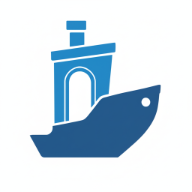
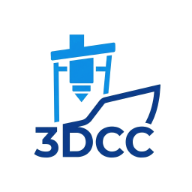
Refactor code structure for improved readability and maintainability

Changed region(s): [[0.1562, 0.0938, 0.8438, 0.8438]]

diff --git a/index.html b/index.html
@@ -7,11 +7,11 @@
     <title>3DCC Salamanca | Impresión 3D</title>
     
     <!-- Favicons -->
-    <link rel="apple-touch-icon" sizes="180x180" href="icons/apple-touch-icon.png">
-    <link rel="icon" type="image/png" sizes="32x32" href="icons/favicon-32x32.png">
-    <link rel="icon" type="image/png" sizes="16x16" href="icons/favicon-16x16.png">
+    <link rel="apple-touch-icon" sizes="180x180" href="icons/android-chrome-512x512.png">
+    <link rel="icon" href="icons/android-chrome-512x512.png" type="image/png" sizes="512x512">
+    <link rel="icon" href="icons/android-chrome-192x192.png" type="image/png" sizes="192x192">
     <link rel="manifest" href="icons/site.webmanifest">
-    <link rel="shortcut icon" href="icons/favicon.ico">
+    <link rel="shortcut icon" href="icons/android-chrome-192x192.png">
     
     <!-- SEO Meta Tags -->
     <meta name="description" content="Servicio profesional de impresión 3D en Salamanca. Diseño, prototipado y fabricación de piezas personalizadas. Envíos a toda España. Cotización online instantánea.">
@@ -134,9 +134,7 @@
             <div class="flex justify-between items-center py-4">
                 <div class="flex items-center gap-2">
                     <span class="text-accent text-2xl">
-                        <svg xmlns="http://www.w3.org/2000/svg" fill="none" viewBox="0 0 24 24" stroke-width="1.5" stroke="currentColor" class="w-8 h-8">
-                            <path stroke-linecap="round" stroke-linejoin="round" d="m21 7.5-9-5.25L3 7.5m18 0-9 5.25m9-5.25v9l-9 5.25M3 7.5l9 5.25M3 7.5v9l9 5.25m0-9v9" />
-                        </svg>
+                        <img src="icons/android-chrome-192x192.png" alt="3DCC Logo" class="w-8 h-8 rounded-full object-cover">
                     </span>
                     <span class="text-xl font-bold text-primary dark:text-white">3DCC | Impresión 3D</span>
                 </div>
@@ -328,216 +326,8 @@
                 <p class="text-lg text-gray-600 dark:text-gray-300 max-w-3xl mx-auto">
                     Opiniones reales de quienes ya han confiado en nosotros.
                 </p>
-                <!-- Resumen de valoración -->
-                <div class="flex flex-col sm:flex-row items-center justify-center gap-4 mt-8">
-                    <div class="flex items-center gap-3 bg-white dark:bg-gray-800 px-6 py-4 rounded-2xl shadow-lg">
-                        <svg xmlns="http://www.w3.org/2000/svg" viewBox="0 0 48 48" class="w-10 h-10">
-                            <path fill="#FFC107" d="M43.611,20.083H42V20H24v8h11.303c-1.649,4.657-6.08,8-11.303,8c-6.627,0-12-5.373-12-12c0-6.627,5.373-12,12-12c3.059,0,5.842,1.154,7.961,3.039l5.657-5.657C34.046,6.053,29.268,4,24,4C12.955,4,4,12.955,4,24c0,11.045,8.955,20,20,20c11.045,0,20-8.955,20-20C44,22.659,43.862,21.35,43.611,20.083z"/>
-                            <path fill="#FF3D00" d="M6.306,14.691l6.571,4.819C14.655,15.108,18.961,12,24,12c3.059,0,5.842,1.154,7.961,3.039l5.657-5.657C34.046,6.053,29.268,4,24,4C16.318,4,9.656,8.337,6.306,14.691z"/>
-                            <path fill="#4CAF50" d="M24,44c5.166,0,9.86-1.977,13.409-5.192l-6.19-5.238C29.211,35.091,26.715,36,24,36c-5.202,0-9.619-3.317-11.283-7.946l-6.522,5.025C9.505,39.556,16.227,44,24,44z"/>
-                            <path fill="#1976D2" d="M43.611,20.083H42V20H24v8h11.303c-0.792,2.237-2.231,4.166-4.087,5.571c0.001-0.001,0.002-0.001,0.003-0.002l6.19,5.238C36.971,39.205,44,34,44,24C44,22.659,43.862,21.35,43.611,20.083z"/>
-                        </svg>
-                        <div class="text-left">
-                            <div class="flex items-center gap-2">
-                                <span class="text-3xl font-bold text-gray-800 dark:text-white">5.0</span>
-                                <div class="flex text-yellow-400">
-                                    <svg class="w-5 h-5" fill="currentColor" viewBox="0 0 20 20"><path d="M9.049 2.927c.3-.921 1.603-.921 1.902 0l1.07 3.292a1 1 0 00.95.69h3.462c.969 0 1.371 1.24.588 1.81l-2.8 2.034a1 1 0 00-.364 1.118l1.07 3.292c.3.921-.755 1.688-1.54 1.118l-2.8-2.034a1 1 0 00-1.175 0l-2.8 2.034c-.784.57-1.838-.197-1.539-1.118l1.07-3.292a1 1 0 00-.364-1.118L2.98 8.72c-.783-.57-.38-1.81.588-1.81h3.461a1 1 0 00.951-.69l1.07-3.292z"/></svg>
-                                    <svg class="w-5 h-5" fill="currentColor" viewBox="0 0 20 20"><path d="M9.049 2.927c.3-.921 1.603-.921 1.902 0l1.07 3.292a1 1 0 00.95.69h3.462c.969 0 1.371 1.24.588 1.81l-2.8 2.034a1 1 0 00-.364 1.118l1.07 3.292c.3.921-.755 1.688-1.54 1.118l-2.8-2.034a1 1 0 00-1.175 0l-2.8 2.034c-.784.57-1.838-.197-1.539-1.118l1.07-3.292a1 1 0 00-.364-1.118L2.98 8.72c-.783-.57-.38-1.81.588-1.81h3.461a1 1 0 00.951-.69l1.07-3.292z"/></svg>
-                                    <svg class="w-5 h-5" fill="currentColor" viewBox="0 0 20 20"><path d="M9.049 2.927c.3-.921 1.603-.921 1.902 0l1.07 3.292a1 1 0 00.95.69h3.462c.969 0 1.371 1.24.588 1.81l-2.8 2.034a1 1 0 00-.364 1.118l1.07 3.292c.3.921-.755 1.688-1.54 1.118l-2.8-2.034a1 1 0 00-1.175 0l-2.8 2.034c-.784.57-1.838-.197-1.539-1.118l1.07-3.292a1 1 0 00-.364-1.118L2.98 8.72c-.783-.57-.38-1.81.588-1.81h3.461a1 1 0 00.951-.69l1.07-3.292z"/></svg>
-                                    <svg class="w-5 h-5" fill="currentColor" viewBox="0 0 20 20"><path d="M9.049 2.927c.3-.921 1.603-.921 1.902 0l1.07 3.292a1 1 0 00.95.69h3.462c.969 0 1.371 1.24.588 1.81l-2.8 2.034a1 1 0 00-.364 1.118l1.07 3.292c.3.921-.755 1.688-1.54 1.118l-2.8-2.034a1 1 0 00-1.175 0l-2.8 2.034c-.784.57-1.838-.197-1.539-1.118l1.07-3.292a1 1 0 00-.364-1.118L2.98 8.72c-.783-.57-.38-1.81.588-1.81h3.461a1 1 0 00.951-.69l1.07-3.292z"/></svg>
-                                    <svg class="w-5 h-5" fill="currentColor" viewBox="0 0 20 20"><path d="M9.049 2.927c.3-.921 1.603-.921 1.902 0l1.07 3.292a1 1 0 00.95.69h3.462c.969 0 1.371 1.24.588 1.81l-2.8 2.034a1 1 0 00-.364 1.118l1.07 3.292c.3.921-.755 1.688-1.54 1.118l-2.8-2.034a1 1 0 00-1.175 0l-2.8 2.034c-.784.57-1.838-.197-1.539-1.118l1.07-3.292a1 1 0 00-.364-1.118L2.98 8.72c-.783-.57-.38-1.81.588-1.81h3.461a1 1 0 00.951-.69l1.07-3.292z"/></svg>
-                                </div>
-                            </div>
-                            <p class="text-sm text-gray-500 dark:text-gray-400">18 reseñas en Google</p>
-                        </div>
-                    </div>
-                </div>
             </div>
-            
-            <!-- Carrusel de Reseñas Reales -->
-            <div class="relative max-w-5xl mx-auto">
-                <div class="overflow-hidden rounded-2xl">
-                    <div id="reviewsCarousel" class="flex transition-transform duration-500 ease-in-out">
-                        <!-- Reseña 1: M. -->
-                        <div class="review-slide min-w-full md:min-w-[50%] lg:min-w-[33.333%] px-3">
-                            <div class="bg-white dark:bg-gray-800 rounded-xl shadow-lg p-6 h-full flex flex-col">
-                                <div class="flex items-center gap-3 mb-4">
-                                    <div class="w-12 h-12 bg-gradient-to-br from-blue-500 to-blue-600 rounded-full flex items-center justify-center text-white font-bold text-lg">M</div>
-                                    <div class="flex-1">
-                                        <h4 class="font-semibold text-gray-800 dark:text-white">M.</h4>
-                                        <div class="flex text-yellow-400 text-sm">★★★★★</div>
-                                    </div>
-                                    <svg xmlns="http://www.w3.org/2000/svg" viewBox="0 0 48 48" class="w-6 h-6 opacity-50">
-                                        <path fill="#4285F4" d="M43.611,20.083H42V20H24v8h11.303c-1.649,4.657-6.08,8-11.303,8c-6.627,0-12-5.373-12-12c0-6.627,5.373-12,12-12c3.059,0,5.842,1.154,7.961,3.039l5.657-5.657C34.046,6.053,29.268,4,24,4C12.955,4,4,12.955,4,24c0,11.045,8.955,20,20,20c11.045,0,20-8.955,20-20C44,22.659,43.862,21.35,43.611,20.083z"/>
-                                    </svg>
-                                </div>
-                                <p class="text-gray-600 dark:text-gray-300 text-sm flex-1 leading-relaxed">"Le conocimos a través de Google, por sus buenas reseñas, y no dudé en contactar con él. Recomendable 100%. Pregunté si podía crear una pieza de la baca del coche que se nos había perdido, y en un día lo tenía hecho. Trato estupendo."</p>
-                                <p class="text-gray-400 dark:text-gray-500 text-xs mt-4">Hace un mes</p>
-                            </div>
-                        </div>
-                        
-                        <!-- Reseña 2: Victor Garcia De Arriba -->
-                        <div class="review-slide min-w-full md:min-w-[50%] lg:min-w-[33.333%] px-3">
-                            <div class="bg-white dark:bg-gray-800 rounded-xl shadow-lg p-6 h-full flex flex-col">
-                                <div class="flex items-center gap-3 mb-4">
-                                    <div class="w-12 h-12 bg-gradient-to-br from-green-500 to-emerald-600 rounded-full flex items-center justify-center text-white font-bold text-lg">V</div>
-                                    <div class="flex-1">
-                                        <h4 class="font-semibold text-gray-800 dark:text-white">Victor Garcia De Arriba</h4>
-                                        <div class="flex text-yellow-400 text-sm">★★★★★</div>
-                                    </div>
-                                    <svg xmlns="http://www.w3.org/2000/svg" viewBox="0 0 48 48" class="w-6 h-6 opacity-50">
-                                        <path fill="#4285F4" d="M43.611,20.083H42V20H24v8h11.303c-1.649,4.657-6.08,8-11.303,8c-6.627,0-12-5.373-12-12c0-6.627,5.373-12,12-12c3.059,0,5.842,1.154,7.961,3.039l5.657-5.657C34.046,6.053,29.268,4,24,4C12.955,4,4,12.955,4,24c0,11.045,8.955,20,20,20c11.045,0,20-8.955,20-20C44,22.659,43.862,21.35,43.611,20.083z"/>
-                                    </svg>
-                                </div>
-                                <p class="text-gray-600 dark:text-gray-300 text-sm flex-1 leading-relaxed">"De 10! Muy rápidos y amables, y la calidad de lo entregado es estupenda! Muy recomendable para cualquier diorama que queráis montar para vuestra colección!"</p>
-                                <p class="text-gray-400 dark:text-gray-500 text-xs mt-4">Hace 2 meses</p>
-                            </div>
-                        </div>
-                        
-                        <!-- Reseña 3: vicente saez -->
-                        <div class="review-slide min-w-full md:min-w-[50%] lg:min-w-[33.333%] px-3">
-                            <div class="bg-white dark:bg-gray-800 rounded-xl shadow-lg p-6 h-full flex flex-col">
-                                <div class="flex items-center gap-3 mb-4">
-                                    <div class="w-12 h-12 bg-gradient-to-br from-purple-500 to-pink-600 rounded-full flex items-center justify-center text-white font-bold text-lg">V</div>
-                                    <div class="flex-1">
-                                        <h4 class="font-semibold text-gray-800 dark:text-white">Vicente Saez</h4>
-                                        <div class="flex text-yellow-400 text-sm">★★★★★</div>
-                                    </div>
-                                    <svg xmlns="http://www.w3.org/2000/svg" viewBox="0 0 48 48" class="w-6 h-6 opacity-50">
-                                        <path fill="#4285F4" d="M43.611,20.083H42V20H24v8h11.303c-1.649,4.657-6.08,8-11.303,8c-6.627,0-12-5.373-12-12c0-6.627,5.373-12,12-12c3.059,0,5.842,1.154,7.961,3.039l5.657-5.657C34.046,6.053,29.268,4,24,4C12.955,4,4,12.955,4,24c0,11.045,8.955,20,20,20c11.045,0,20-8.955,20-20C44,22.659,43.862,21.35,43.611,20.083z"/>
-                                    </svg>
-                                </div>
-                                <p class="text-gray-600 dark:text-gray-300 text-sm flex-1 leading-relaxed">"Rápido, fácil y accesibles. Tan simple como enviarles el diseño y en menos de un día lo tenían listo. Calidad buena y resistente. Muy recomendable."</p>
-                                <p class="text-gray-400 dark:text-gray-500 text-xs mt-4">Hace 2 meses</p>
-                            </div>
-                        </div>
-                        
-                        <!-- Reseña 4: Arturo Valencia -->
-                        <div class="review-slide min-w-full md:min-w-[50%] lg:min-w-[33.333%] px-3">
-                            <div class="bg-white dark:bg-gray-800 rounded-xl shadow-lg p-6 h-full flex flex-col">
-                                <div class="flex items-center gap-3 mb-4">
-                                    <div class="w-12 h-12 bg-gradient-to-br from-orange-500 to-red-600 rounded-full flex items-center justify-center text-white font-bold text-lg">A</div>
-                                    <div class="flex-1">
-                                        <h4 class="font-semibold text-gray-800 dark:text-white">Arturo Valencia</h4>
-                                        <div class="flex text-yellow-400 text-sm">★★★★★</div>
-                                    </div>
-                                    <svg xmlns="http://www.w3.org/2000/svg" viewBox="0 0 48 48" class="w-6 h-6 opacity-50">
-                                        <path fill="#4285F4" d="M43.611,20.083H42V20H24v8h11.303c-1.649,4.657-6.08,8-11.303,8c-6.627,0-12-5.373-12-12c0-6.627,5.373-12,12-12c3.059,0,5.842,1.154,7.961,3.039l5.657-5.657C34.046,6.053,29.268,4,24,4C12.955,4,4,12.955,4,24c0,11.045,8.955,20,20,20c11.045,0,20-8.955,20-20C44,22.659,43.862,21.35,43.611,20.083z"/>
-                                    </svg>
-                                </div>
-                                <p class="text-gray-600 dark:text-gray-300 text-sm flex-1 leading-relaxed">"Se adapto perfectamente a lo que pedía, y tiene un amplia gama de colores para elegir. Gran trabajo y rápido. Muy recomendado"</p>
-                                <p class="text-gray-400 dark:text-gray-500 text-xs mt-4">Hace 5 meses</p>
-                            </div>
-                        </div>
-                        
-                        <!-- Reseña 5: Marcos 98 -->
-                        <div class="review-slide min-w-full md:min-w-[50%] lg:min-w-[33.333%] px-3">
-                            <div class="bg-white dark:bg-gray-800 rounded-xl shadow-lg p-6 h-full flex flex-col">
-                                <div class="flex items-center gap-3 mb-4">
-                                    <div class="w-12 h-12 bg-gradient-to-br from-cyan-500 to-blue-600 rounded-full flex items-center justify-center text-white font-bold text-lg">M</div>
-                                    <div class="flex-1">
-                                        <h4 class="font-semibold text-gray-800 dark:text-white">Marcos 98</h4>
-                                        <div class="flex text-yellow-400 text-sm">★★★★★</div>
-                                    </div>
-                                    <svg xmlns="http://www.w3.org/2000/svg" viewBox="0 0 48 48" class="w-6 h-6 opacity-50">
-                                        <path fill="#4285F4" d="M43.611,20.083H42V20H24v8h11.303c-1.649,4.657-6.08,8-11.303,8c-6.627,0-12-5.373-12-12c0-6.627,5.373-12,12-12c3.059,0,5.842,1.154,7.961,3.039l5.657-5.657C34.046,6.053,29.268,4,24,4C12.955,4,4,12.955,4,24c0,11.045,8.955,20,20,20c11.045,0,20-8.955,20-20C44,22.659,43.862,21.35,43.611,20.083z"/>
-                                    </svg>
-                                </div>
-                                <p class="text-gray-600 dark:text-gray-300 text-sm flex-1 leading-relaxed">"Excelente trato y rapidez en el servicio. Las piezas quedaron perfectas"</p>
-                                <p class="text-gray-400 dark:text-gray-500 text-xs mt-4">Hace 3 dias</p>
-                            </div>
-                        </div>
-                        
-                        <!-- Reseña 6: Andrés -->
-                        <div class="review-slide min-w-full md:min-w-[50%] lg:min-w-[33.333%] px-3">
-                            <div class="bg-white dark:bg-gray-800 rounded-xl shadow-lg p-6 h-full flex flex-col">
-                                <div class="flex items-center gap-3 mb-4">
-                                    <div class="w-12 h-12 bg-gradient-to-br from-indigo-500 to-violet-600 rounded-full flex items-center justify-center text-white font-bold text-lg">A</div>
-                                    <div class="flex-1">
-                                        <h4 class="font-semibold text-gray-800 dark:text-white">Andrés</h4>
-                                        <div class="flex text-yellow-400 text-sm">★★★★★</div>
-                                    </div>
-                                    <svg xmlns="http://www.w3.org/2000/svg" viewBox="0 0 48 48" class="w-6 h-6 opacity-50">
-                                        <path fill="#4285F4" d="M43.611,20.083H42V20H24v8h11.303c-1.649,4.657-6.08,8-11.303,8c-6.627,0-12-5.373-12-12c0-6.627,5.373-12,12-12c3.059,0,5.842,1.154,7.961,3.039l5.657-5.657C34.046,6.053,29.268,4,24,4C12.955,4,4,12.955,4,24c0,11.045,8.955,20,20,20c11.045,0,20-8.955,20-20C44,22.659,43.862,21.35,43.611,20.083z"/>
-                                    </svg>
-                                </div>
-                                <p class="text-gray-600 dark:text-gray-300 text-sm flex-1 leading-relaxed">"Muy buen servicio la persona muy amable"</p>
-                                <p class="text-gray-400 dark:text-gray-500 text-xs mt-4">Hace una semana</p>
-                            </div>
-                        </div>
-                        
-                        <!-- Reseña 7: Iván CS -->
-                        <div class="review-slide min-w-full md:min-w-[50%] lg:min-w-[33.333%] px-3">
-                            <div class="bg-white dark:bg-gray-800 rounded-xl shadow-lg p-6 h-full flex flex-col">
-                                <div class="flex items-center gap-3 mb-4">
-                                    <div class="w-12 h-12 bg-gradient-to-br from-rose-500 to-pink-600 rounded-full flex items-center justify-center text-white font-bold text-lg">I</div>
-                                    <div class="flex-1">
-                                        <h4 class="font-semibold text-gray-800 dark:text-white">Iván CS</h4>
-                                        <div class="flex text-yellow-400 text-sm">★★★★★</div>
-                                    </div>
-                                    <svg xmlns="http://www.w3.org/2000/svg" viewBox="0 0 48 48" class="w-6 h-6 opacity-50">
-                                        <path fill="#4285F4" d="M43.611,20.083H42V20H24v8h11.303c-1.649,4.657-6.08,8-11.303,8c-6.627,0-12-5.373-12-12c0-6.627,5.373-12,12-12c3.059,0,5.842,1.154,7.961,3.039l5.657-5.657C34.046,6.053,29.268,4,24,4C12.955,4,4,12.955,4,24c0,11.045,8.955,20,20,20c11.045,0,20-8.955,20-20C44,22.659,43.862,21.35,43.611,20.083z"/>
-                                    </svg>
-                                </div>
-                                <p class="text-gray-600 dark:text-gray-300 text-sm flex-1 leading-relaxed">"Imprimieron mis sueños… literalmente. Llevé un diseño que pensé que era imposible y lo hicieron realidad. La calidad es excelente, los detalles impresionantes y el servicio impecable."</p>
-                                <p class="text-gray-400 dark:text-gray-500 text-xs mt-4">Hace 1 año</p>
-                            </div>
-                        </div>
-                        
-                        <!-- Reseña 8: Alvaro Garcia Menor -->
-                        <div class="review-slide min-w-full md:min-w-[50%] lg:min-w-[33.333%] px-3">
-                            <div class="bg-white dark:bg-gray-800 rounded-xl shadow-lg p-6 h-full flex flex-col">
-                                <div class="flex items-center gap-3 mb-4">
-                                    <div class="w-12 h-12 bg-gradient-to-br from-amber-500 to-orange-600 rounded-full flex items-center justify-center text-white font-bold text-lg">A</div>
-                                    <div class="flex-1">
-                                        <h4 class="font-semibold text-gray-800 dark:text-white">Alvaro Garcia Menor</h4>
-                                        <div class="flex text-yellow-400 text-sm">★★★★★</div>
-                                    </div>
-                                    <svg xmlns="http://www.w3.org/2000/svg" viewBox="0 0 48 48" class="w-6 h-6 opacity-50">
-                                        <path fill="#4285F4" d="M43.611,20.083H42V20H24v8h11.303c-1.649,4.657-6.08,8-11.303,8c-6.627,0-12-5.373-12-12c0-6.627,5.373-12,12-12c3.059,0,5.842,1.154,7.961,3.039l5.657-5.657C34.046,6.053,29.268,4,24,4C12.955,4,4,12.955,4,24c0,11.045,8.955,20,20,20c11.045,0,20-8.955,20-20C44,22.659,43.862,21.35,43.611,20.083z"/>
-                                    </svg>
-                                </div>
-                                <p class="text-gray-600 dark:text-gray-300 text-sm flex-1 leading-relaxed">"Muy agradable y buen producto. Recomendado 100%"</p>
-                                <p class="text-gray-400 dark:text-gray-500 text-xs mt-4">Hace 2 meses</p>
-                            </div>
-                        </div>
-                    </div>
-                </div>
-                
-                <!-- Controles del carrusel -->
-                <button id="prevReview" class="absolute left-0 top-1/2 -translate-y-1/2 -translate-x-2 md:-translate-x-4 bg-white dark:bg-gray-800 rounded-full p-3 shadow-lg hover:bg-gray-100 dark:hover:bg-gray-700 transition-all hover:scale-110 z-10">
-                    <svg xmlns="http://www.w3.org/2000/svg" fill="none" viewBox="0 0 24 24" stroke-width="2.5" stroke="currentColor" class="w-5 h-5 text-gray-800 dark:text-white">
-                        <path stroke-linecap="round" stroke-linejoin="round" d="M15.75 19.5 8.25 12l7.5-7.5" />
-                    </svg>
-                </button>
-                <button id="nextReview" class="absolute right-0 top-1/2 -translate-y-1/2 translate-x-2 md:translate-x-4 bg-white dark:bg-gray-800 rounded-full p-3 shadow-lg hover:bg-gray-100 dark:hover:bg-gray-700 transition-all hover:scale-110 z-10">
-                    <svg xmlns="http://www.w3.org/2000/svg" fill="none" viewBox="0 0 24 24" stroke-width="2.5" stroke="currentColor" class="w-5 h-5 text-gray-800 dark:text-white">
-                        <path stroke-linecap="round" stroke-linejoin="round" d="m8.25 4.5 7.5 7.5-7.5 7.5" />
-                    </svg>
-                </button>
-            </div>
-            
-            <!-- Botones de acción -->
-            <div class="flex flex-col sm:flex-row gap-4 justify-center mt-10">
-                <a href="https://www.google.com/maps/place/3DCC+%7C+Impresi%C3%B3n+3D/@40.973794,-5.6669915,17z/data=!4m8!3m7!1s0xd3f2732fe5c056d:0x45e94ea09ec7db5a!8m2!3d40.973794!4d-5.6669915!9m1!1b1!16s%2Fg%2F11x21l65vh" 
-                   target="_blank" 
-                   rel="noopener noreferrer"
-                   class="inline-flex items-center justify-center gap-2 bg-accent text-white px-8 py-4 rounded-lg font-semibold hover:bg-blue-600 transition-all hover:-translate-y-1 hover:shadow-lg">
-                    <svg xmlns="http://www.w3.org/2000/svg" fill="none" viewBox="0 0 24 24" stroke-width="1.5" stroke="currentColor" class="w-5 h-5">
-                        <path stroke-linecap="round" stroke-linejoin="round" d="M11.48 3.499a.562.562 0 0 1 1.04 0l2.125 5.111a.563.563 0 0 0 .475.345l5.518.442c.499.04.701.663.321.988l-4.204 3.602a.563.563 0 0 0-.182.557l1.285 5.385a.562.562 0 0 1-.84.61l-4.725-2.885a.562.562 0 0 0-.586 0L6.982 20.54a.562.562 0 0 1-.84-.61l1.285-5.386a.562.562 0 0 0-.182-.557l-4.204-3.602a.562.562 0 0 1 .321-.988l5.518-.442a.563.563 0 0 0 .475-.345L11.48 3.5Z" />
-                    </svg>
-                    Ver todas las reseñas
-                </a>
-                <a href="https://search.google.com/local/writereview?placeid=ChIJbQVe_jInPQ0RWtt8oOqU6UU" 
-                   target="_blank" 
-                   rel="noopener noreferrer"
-                   class="inline-flex items-center justify-center gap-2 bg-transparent text-accent border-2 border-accent px-8 py-4 rounded-lg font-semibold hover:bg-accent hover:text-white transition-all hover:-translate-y-1">
-                    <svg xmlns="http://www.w3.org/2000/svg" fill="none" viewBox="0 0 24 24" stroke-width="1.5" stroke="currentColor" class="w-5 h-5">
-                        <path stroke-linecap="round" stroke-linejoin="round" d="m16.862 4.487 1.687-1.688a1.875 1.875 0 1 1 2.652 2.652L10.582 16.07a4.5 4.5 0 0 1-1.897 1.13L6 18l.8-2.685a4.5 4.5 0 0 1 1.13-1.897l8.932-8.931Zm0 0L19.5 7.125M18 14v4.75A2.25 2.25 0 0 1 15.75 21H5.25A2.25 2.25 0 0 1 3 18.75V8.25A2.25 2.25 0 0 1 5.25 6H10" />
-                    </svg>
-                    Dejar una reseña
-                </a>
-            </div>
+            <script defer async src='https://cdn.trustindex.io/loader.js?03664c36382e1088a39602d4c28'></script>
         </div>
     </section>
 

diff --git a/muestrario.html b/muestrario.html
@@ -6,11 +6,11 @@
     <title>Muestrario de Colores y Materiales - 3DCC Salamanca</title>
     
     <!-- Favicons -->
-    <link rel="apple-touch-icon" sizes="180x180" href="icons/apple-touch-icon.png">
-    <link rel="icon" type="image/png" sizes="32x32" href="icons/favicon-32x32.png">
-    <link rel="icon" type="image/png" sizes="16x16" href="icons/favicon-16x16.png">
+    <link rel="apple-touch-icon" sizes="180x180" href="icons/android-chrome-512x512.png">
+    <link rel="icon" href="icons/android-chrome-512x512.png" type="image/png" sizes="512x512">
+    <link rel="icon" href="icons/android-chrome-192x192.png" type="image/png" sizes="192x192">
     <link rel="manifest" href="icons/site.webmanifest">
-    <link rel="shortcut icon" href="icons/favicon.ico">
+    <link rel="shortcut icon" href="icons/android-chrome-192x192.png">
     
     <!-- Tailwind CSS -->
     <script src="https://cdn.tailwindcss.com"></script>
@@ -50,9 +50,7 @@
             <div class="flex justify-between items-center py-4">
                 <a href="index.html" class="flex items-center gap-2">
                     <span class="text-accent text-2xl">
-                        <svg xmlns="http://www.w3.org/2000/svg" fill="none" viewBox="0 0 24 24" stroke-width="1.5" stroke="currentColor" class="w-8 h-8">
-                            <path stroke-linecap="round" stroke-linejoin="round" d="m21 7.5-9-5.25L3 7.5m18 0-9 5.25m9-5.25v9l-9 5.25M3 7.5l9 5.25M3 7.5v9l9 5.25m0-9v9" />
-                        </svg>
+                        <img src="icons/android-chrome-192x192.png" alt="3DCC Logo" class="w-8 h-8 rounded-full object-cover">
                     </span>
                     <span class="text-xl font-bold text-primary dark:text-white">3DCC | Impresión 3D</span>
                 </a>

diff --git a/catalogo.html b/catalogo.html
@@ -6,11 +6,11 @@
     <title>Catálogo de Productos - 3DCC Salamanca</title>
     
     <!-- Favicons -->
-    <link rel="apple-touch-icon" sizes="180x180" href="icons/apple-touch-icon.png">
-    <link rel="icon" type="image/png" sizes="32x32" href="icons/favicon-32x32.png">
-    <link rel="icon" type="image/png" sizes="16x16" href="icons/favicon-16x16.png">
+    <link rel="apple-touch-icon" sizes="180x180" href="icons/android-chrome-512x512.png">
+    <link rel="icon" href="icons/android-chrome-512x512.png" type="image/png" sizes="512x512">
+    <link rel="icon" href="icons/android-chrome-192x192.png" type="image/png" sizes="192x192">
     <link rel="manifest" href="icons/site.webmanifest">
-    <link rel="shortcut icon" href="icons/favicon.ico">
+    <link rel="shortcut icon" href="icons/android-chrome-192x192.png">
     
     <!-- Tailwind CSS -->
     <script src="https://cdn.tailwindcss.com"></script>
@@ -70,9 +70,7 @@
             <div class="flex justify-between items-center py-4">
                 <a href="index.html" class="flex items-center gap-2">
                     <span class="text-accent text-2xl">
-                        <svg xmlns="http://www.w3.org/2000/svg" fill="none" viewBox="0 0 24 24" stroke-width="1.5" stroke="currentColor" class="w-8 h-8">
-                            <path stroke-linecap="round" stroke-linejoin="round" d="m21 7.5-9-5.25L3 7.5m18 0-9 5.25m9-5.25v9l-9 5.25M3 7.5l9 5.25M3 7.5v9l9 5.25m0-9v9" />
-                        </svg>
+                        <img src="icons/android-chrome-192x192.png" alt="3DCC Logo" class="w-8 h-8 rounded-full object-cover">
                     </span>
                     <span class="text-xl font-bold text-primary dark:text-white">3DCC | Impresión 3D</span>
                 </a>

diff --git a/terminos.html b/terminos.html
@@ -6,11 +6,11 @@
     <title>Términos y Condiciones - 3DCC Salamanca</title>
     
     <!-- Favicons -->
-    <link rel="apple-touch-icon" sizes="180x180" href="icons/apple-touch-icon.png">
-    <link rel="icon" type="image/png" sizes="32x32" href="icons/favicon-32x32.png">
-    <link rel="icon" type="image/png" sizes="16x16" href="icons/favicon-16x16.png">
+    <link rel="apple-touch-icon" sizes="180x180" href="icons/android-chrome-512x512.png">
+    <link rel="icon" href="icons/android-chrome-512x512.png" type="image/png" sizes="512x512">
+    <link rel="icon" href="icons/android-chrome-192x192.png" type="image/png" sizes="192x192">
     <link rel="manifest" href="icons/site.webmanifest">
-    <link rel="shortcut icon" href="icons/favicon.ico">
+    <link rel="shortcut icon" href="icons/android-chrome-192x192.png">
     
     <!-- Tailwind CSS -->
     <script src="https://cdn.tailwindcss.com"></script>
@@ -35,9 +35,7 @@
             <div class="flex justify-between items-center py-4">
                 <a href="index.html" class="flex items-center gap-2">
                     <span class="text-accent text-2xl">
-                        <svg xmlns="http://www.w3.org/2000/svg" fill="none" viewBox="0 0 24 24" stroke-width="1.5" stroke="currentColor" class="w-8 h-8">
-                            <path stroke-linecap="round" stroke-linejoin="round" d="m21 7.5-9-5.25L3 7.5m18 0-9 5.25m9-5.25v9l-9 5.25M3 7.5l9 5.25M3 7.5v9l9 5.25m0-9v9" />
-                        </svg>
+                        <img src="icons/android-chrome-192x192.png" alt="3DCC Logo" class="w-8 h-8 rounded-full object-cover">
                     </span>
                     <span class="text-xl font-bold text-primary">3DCC | Impresión 3D</span>
                 </a>

diff --git a/instant-quote.html b/instant-quote.html
@@ -6,11 +6,11 @@
     <title>Precio Instantáneo - 3DCC Salamanca</title>
     
     <!-- Favicons -->
-    <link rel="apple-touch-icon" sizes="180x180" href="icons/apple-touch-icon.png">
-    <link rel="icon" type="image/png" sizes="32x32" href="icons/favicon-32x32.png">
-    <link rel="icon" type="image/png" sizes="16x16" href="icons/favicon-16x16.png">
+    <link rel="apple-touch-icon" sizes="180x180" href="icons/android-chrome-512x512.png">
+    <link rel="icon" href="icons/android-chrome-512x512.png" type="image/png" sizes="512x512">
+    <link rel="icon" href="icons/android-chrome-192x192.png" type="image/png" sizes="192x192">
     <link rel="manifest" href="icons/site.webmanifest">
-    <link rel="shortcut icon" href="icons/favicon.ico">
+    <link rel="shortcut icon" href="icons/android-chrome-192x192.png">
     
     <!-- Tailwind CSS -->
     <script src="https://cdn.tailwindcss.com"></script>
@@ -45,9 +45,7 @@
             <div class="flex justify-between items-center py-4">
                 <!-- Logo -->
                 <a href="index.html" class="flex items-center space-x-2">
-                    <svg xmlns="http://www.w3.org/2000/svg" fill="none" viewBox="0 0 24 24" stroke-width="1.5" stroke="currentColor" class="w-8 h-8 text-accent">
-                        <path stroke-linecap="round" stroke-linejoin="round" d="m21 7.5-9-5.25L3 7.5m18 0-9 5.25m9-5.25v9l-9 5.25M3 7.5l9 5.25M3 7.5v9l9 5.25m0-9v9" />
-                    </svg>
+                        <img src="icons/android-chrome-192x192.png" alt="3DCC Logo" class="w-8 h-8 rounded-full object-cover">
                     <span class="text-xl md:text-2xl font-bold text-primary dark:text-white">3DCC | Impresion3D</span>
                 </a>
 

diff --git a/qr.html b/qr.html
@@ -7,11 +7,11 @@
     <title>3DCC Salamanca | Conecta con Nosotros</title>
     
     <!-- Favicons -->
-    <link rel="apple-touch-icon" sizes="180x180" href="icons/apple-touch-icon.png">
-    <link rel="icon" type="image/png" sizes="32x32" href="icons/favicon-32x32.png">
-    <link rel="icon" type="image/png" sizes="16x16" href="icons/favicon-16x16.png">
+    <link rel="apple-touch-icon" sizes="180x180" href="icons/android-chrome-512x512.png">
+    <link rel="icon" href="icons/android-chrome-512x512.png" type="image/png" sizes="512x512">
+    <link rel="icon" href="icons/android-chrome-192x192.png" type="image/png" sizes="192x192">
     <link rel="manifest" href="icons/site.webmanifest">
-    <link rel="shortcut icon" href="icons/favicon.ico">
+    <link rel="shortcut icon" href="icons/android-chrome-192x192.png">
     
     <!-- SEO Meta Tags -->
     <meta name="description" content="Conecta con 3DCC Salamanca - Tu servicio de impresión 3D de confianza. Encuentra todos nuestros enlaces y déjanos tu reseña.">
